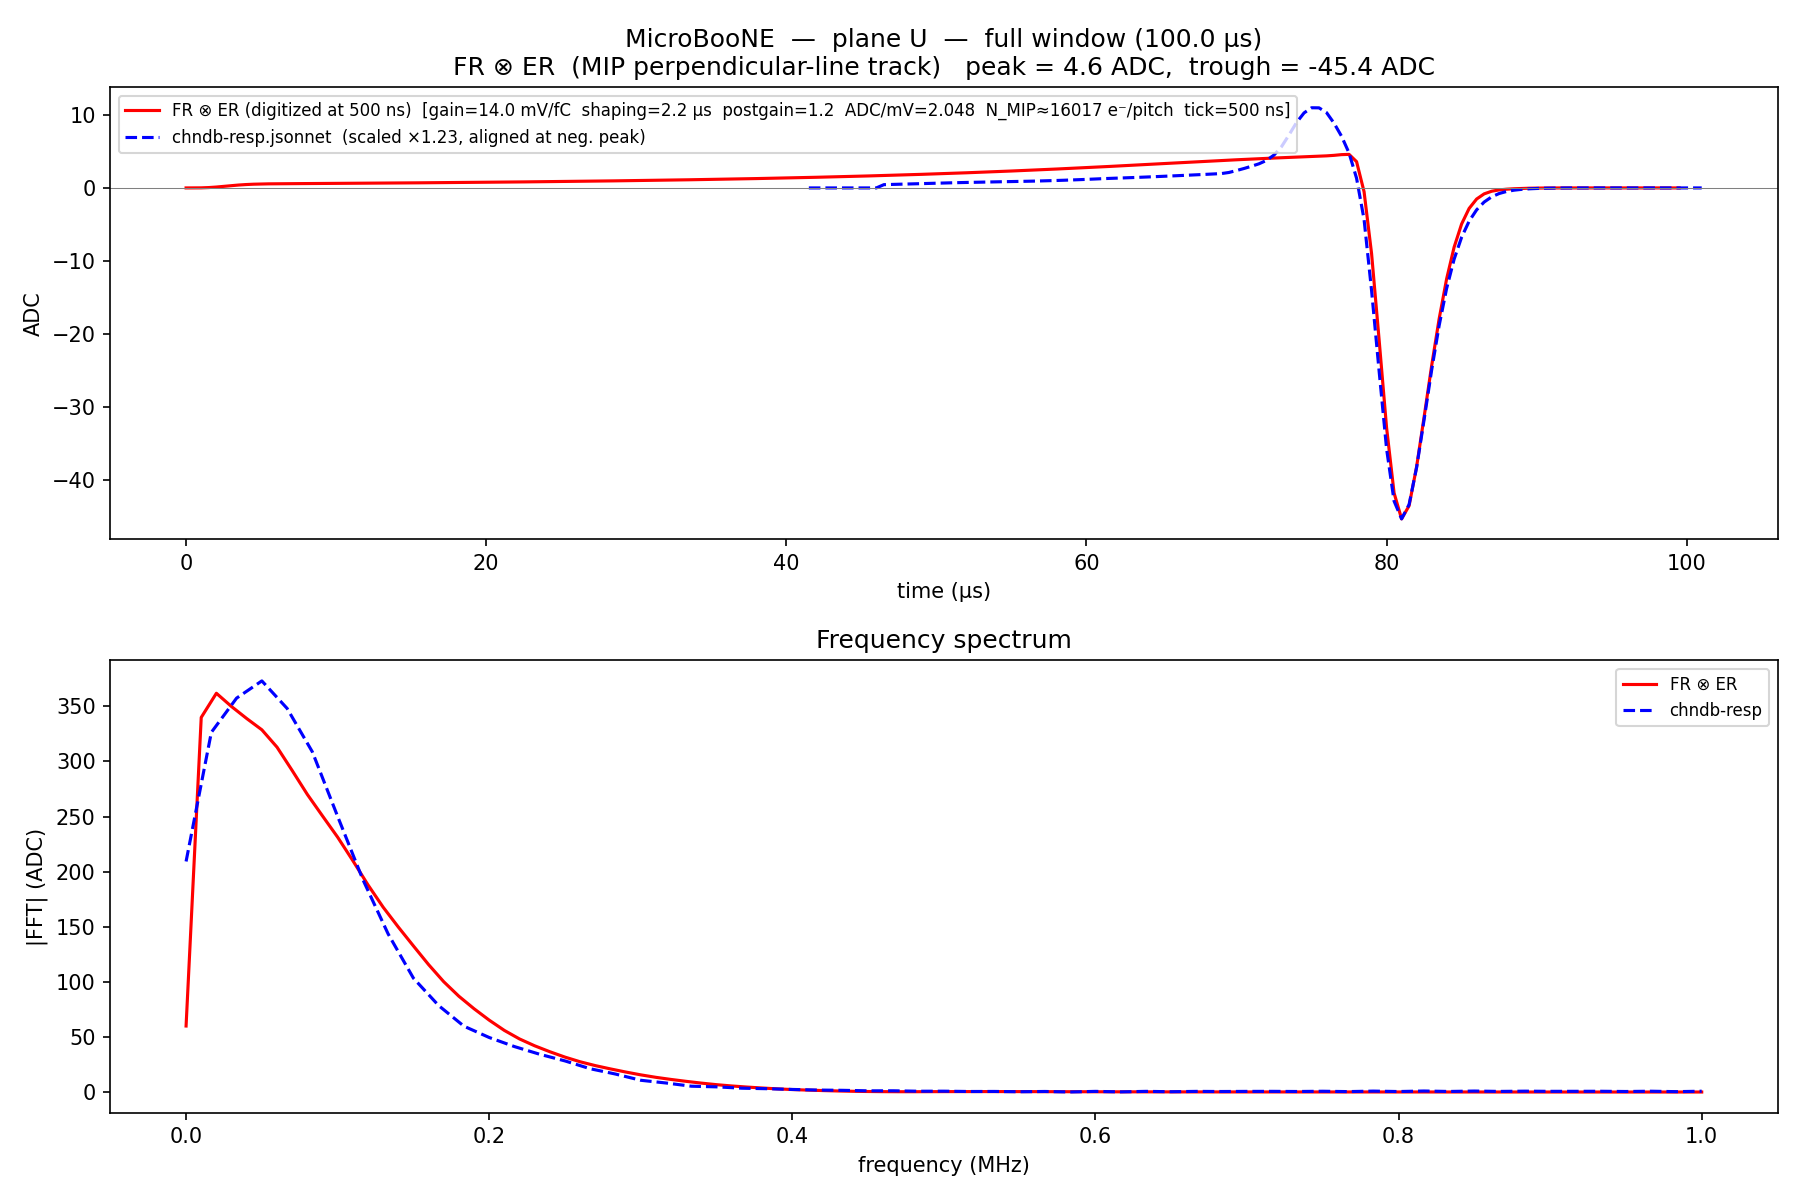
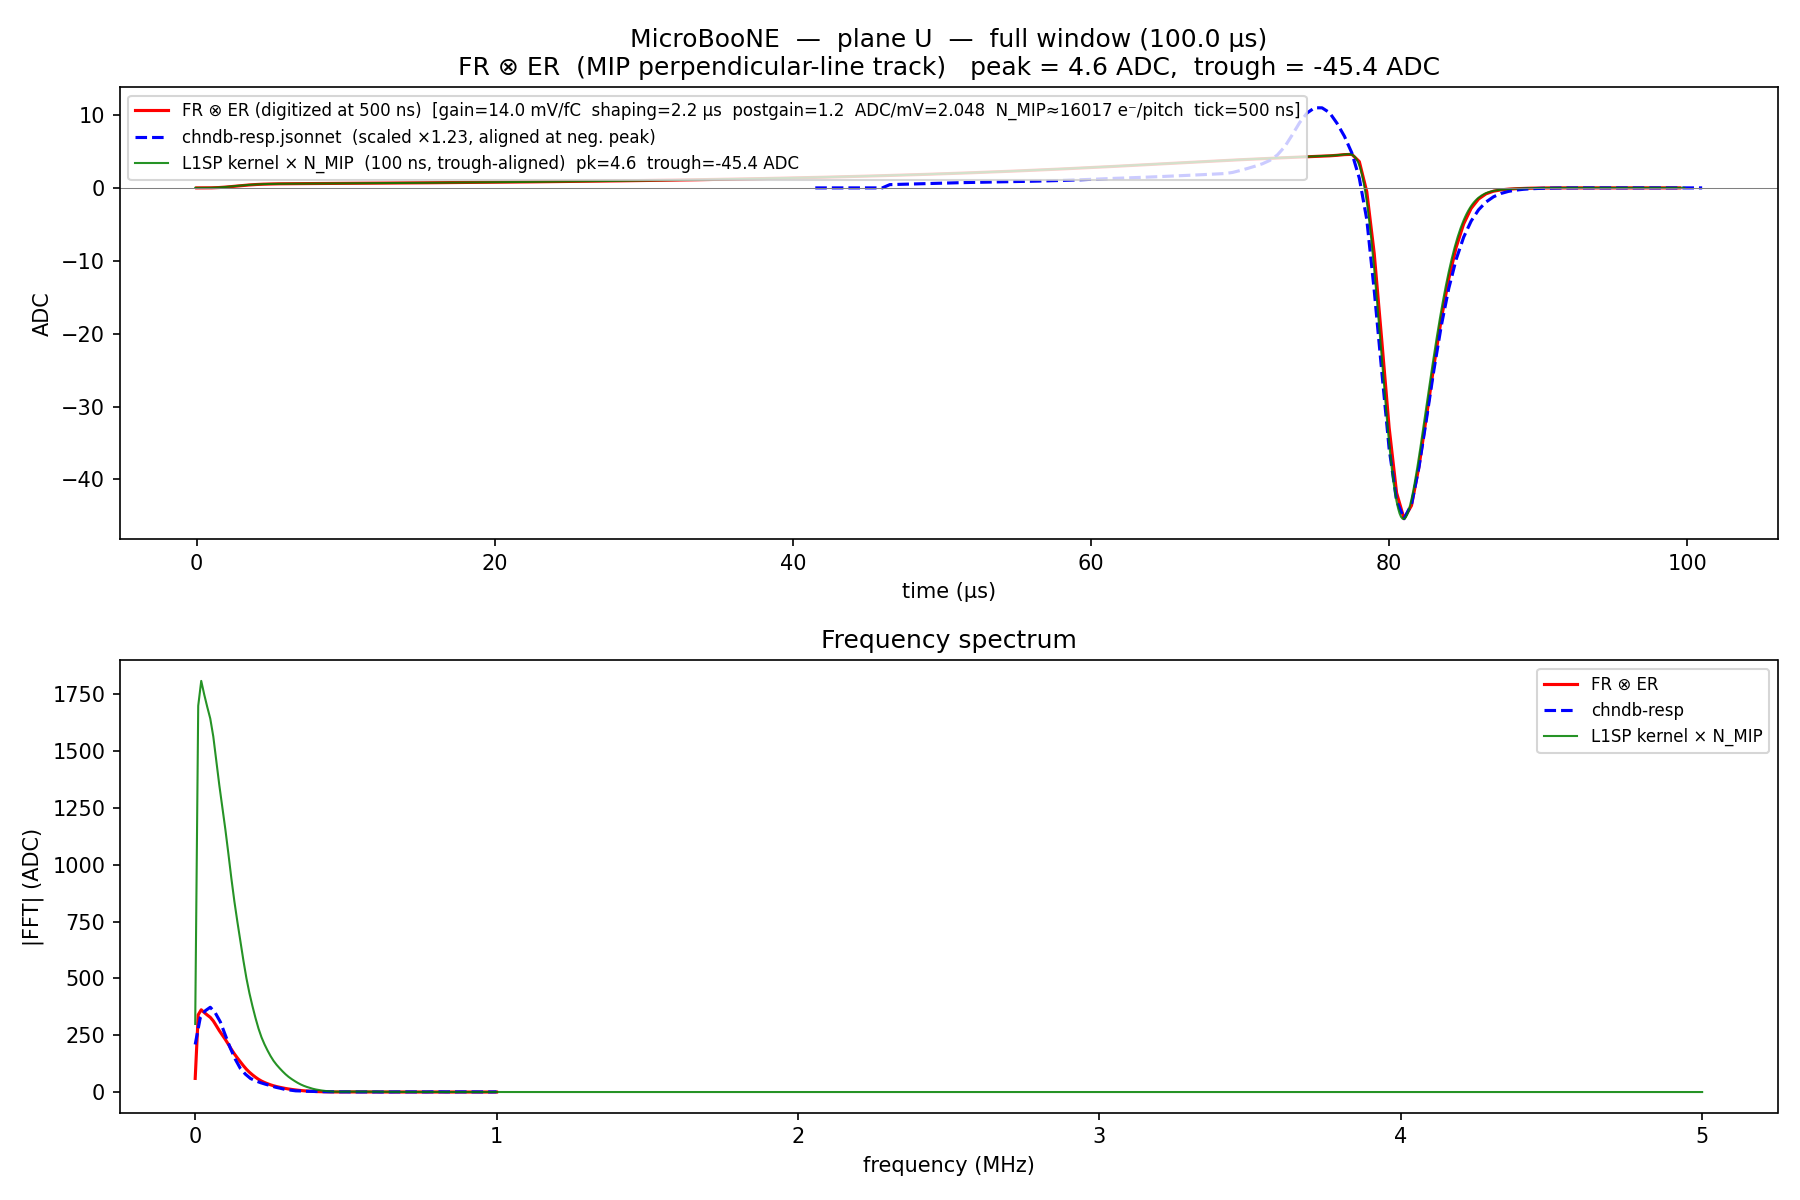
catck up

diff --git a/pdvd/nf_plot/track_response_uboone.py b/pdvd/nf_plot/track_response_uboone.py
@@ -61,7 +61,24 @@ ADC_PER_MV  = 2.048
 #   1.8 MeV/cm × 0.3 cm × 0.7 (recombination) / 23.6 eV per ion pair
 N_MIP_PER_PITCH = (1.8e6 * 0.3 * 0.7) / 23.6   # ≈ 16017 e-
 
+# L1SPFilter (uBooNE) default time offsets — from L1SPFilter.h default params
+L1SP_COARSE_TIME_OFFSET_US  = -8.0   # m_coarse_time_offset
+L1SP_FINE_TIME_OFFSET_US    =  0.0   # m_fine_time_offset
+L1SP_COLLECT_TIME_OFFSET_US = +3.0   # collect_time_offset (W-basis arg shift in L1_fit)
+
 # ---------------------------------------------------------------------------
+
+def l1sp_response(fr_line, er, period_ns):
+    """Reproduce L1SPFilter::init_resp() for one plane.
+
+    Returns the kernel sampled at period_ns (ADC per single electron),
+    matching lin_V / lin_W before the x250 conditioning inside L1_fit.
+    Uses circular FFT — same as the C++ FFT helper.
+    """
+    ewave = -1.0 * POSTGAIN * (ADC_PER_MV / units.mV) * er
+    S = np.fft.rfft(fr_line) * np.fft.rfft(ewave) * period_ns
+    return np.fft.irfft(S, n=len(fr_line))
+
 
 def parse_chndb_resp(path):
     """Extract u_resp and v_resp float arrays from chndb-resp.jsonnet."""
@@ -119,7 +136,8 @@ def line_source_response(plane):
     return integral / pitch
 
 
-def make_plot(wave_adc, chndb_ref, tick_us, plane_label, outpath):
+def make_plot(wave_adc, chndb_ref, tick_us, plane_label, outpath,
+              resp_l1_mip=None, t_l1sp_us=None):
     """Two-panel plot: ADC waveform at 0.5 µs tick (top) + |FFT| (bottom)."""
     N = len(wave_adc)
     t_us      = np.arange(N) * tick_us
@@ -152,6 +170,14 @@ def make_plot(wave_adc, chndb_ref, tick_us, plane_label, outpath):
             label=f'FR ⊗ ER (digitized at {tick_us*1000:.0f} ns)  [{params_str}]')
     ax.plot(t_chndb, chndb_scaled, 'b--', lw=1.5,
             label=f'chndb-resp.jsonnet  (scaled ×{scale:.3g}, aligned at neg. peak)')
+    if resp_l1_mip is not None and t_l1sp_us is not None:
+        i_neg_l1 = int(np.argmin(resp_l1_mip))
+        t_l1sp_aligned = t_l1sp_us + (t_neg_us - t_l1sp_us[i_neg_l1])
+        l1_pk = resp_l1_mip[np.argmax(resp_l1_mip)]
+        l1_tr = resp_l1_mip[i_neg_l1]
+        ax.plot(t_l1sp_aligned, resp_l1_mip, color='green', lw=1.0, alpha=0.85,
+                label=(f'L1SP kernel × N_MIP  (100 ns, trough-aligned)  '
+                       f'pk={l1_pk:.1f}  trough={l1_tr:.1f} ADC'))
     ax.axhline(0, color='gray', lw=0.5)
     ax.set_xlabel('time (µs)')
     ax.set_ylabel('ADC')
@@ -166,6 +192,11 @@ def make_plot(wave_adc, chndb_ref, tick_us, plane_label, outpath):
     ax.plot(freqs_mhz, np.abs(np.fft.rfft(wave_adc)), 'r-', lw=1.5, label='FR ⊗ ER')
     freqs_chndb = np.fft.rfftfreq(len(chndb_scaled), d=CHNDB_TICK_US)   # MHz
     ax.plot(freqs_chndb, np.abs(np.fft.rfft(chndb_scaled)), 'b--', lw=1.5, label='chndb-resp')
+    if resp_l1_mip is not None and t_l1sp_us is not None:
+        fine_tick_us = t_l1sp_us[1] - t_l1sp_us[0]
+        freqs_l1 = np.fft.rfftfreq(len(resp_l1_mip), d=fine_tick_us)
+        ax.plot(freqs_l1, np.abs(np.fft.rfft(resp_l1_mip)), color='green',
+                lw=1.0, alpha=0.85, label='L1SP kernel × N_MIP')
     ax.set_xlabel('frequency (MHz)')
     ax.set_ylabel('|FFT| (ADC)')
     ax.set_title('Frequency spectrum')
@@ -251,8 +282,49 @@ def run():
         scale     = pk_neg_adc / chndb_ref[i_neg_c]
         print(f'  chndb-resp neg peak at sample {i_neg_c}  ({i_neg_c * CHNDB_TICK_US:.1f} µs),  scale = {scale:.4g}')
 
+        # L1SP kernel (ADC/electron at fine period) and numerical verification
+        resp_l1     = l1sp_response(fr_line, er, period_ns)
+        resp_l1_mip = resp_l1 * N_MIP_PER_PITCH
+        wave_adc_fine = wave_mv * ADC_PER_MV
+        maxdiff  = np.max(np.abs(resp_l1_mip - wave_adc_fine))
+        allclose = np.allclose(resp_l1_mip, wave_adc_fine, atol=1.0)
+        print(f'  L1SP kernel vs fine-period FR⊗ER: allclose(atol=1)={allclose}'
+              f'  max_abs_diff={maxdiff:.3e} ADC')
+
+        # Time axis for the L1SP linterp (x0 convention from L1SPFilter::init_resp)
+        intrinsic_toff_ns = fr.origin / fr.speed
+        intrinsic_toff_us = intrinsic_toff_ns / units.us
+        x0_us = (-intrinsic_toff_us
+                 - L1SP_COARSE_TIME_OFFSET_US
+                 + L1SP_FINE_TIME_OFFSET_US)
+        t_l1sp_us = x0_us + np.arange(N_fr) * (period_ns / 1000.0)
+
+        adc_mv_wc  = ADC_PER_MV / units.mV
+        kern_peak  = np.max(np.abs(resp_l1))
+        print(f'\nL1SP normalization chain ({label} plane):')
+        print(f'  postgain                    = {POSTGAIN}')
+        print(f'  ADC_PER_MV (count/mV)       = {ADC_PER_MV}')
+        print(f'  units.mV (WC unit value)    = {units.mV:.6g}')
+        print(f'  ADC_MV_WC = ADC_PER_MV/mV  = {adc_mv_wc:.6g}  count/(WC-mV)')
+        print(f'  fine_period (ns)            = {period_ns}')
+        print(f'  sign                        = -1')
+        print(f'  kernel |peak| (ADC/e)       = {kern_peak:.4g}')
+        print(f'  kernel |peak| × N_MIP (ADC) = {kern_peak * N_MIP_PER_PITCH:.2f}')
+        print(f'\nL1SP time-offset chain ({label} plane):')
+        print(f'  fr.origin (WC length)       = {fr.origin:.6g}')
+        print(f'  fr.speed  (WC velocity)     = {fr.speed:.6g}')
+        print(f'  intrinsic_toff (µs)         = {intrinsic_toff_us:.4f}')
+        print(f'  coarse_time_offset (µs)     = {L1SP_COARSE_TIME_OFFSET_US}')
+        print(f'  fine_time_offset (µs)       = {L1SP_FINE_TIME_OFFSET_US}')
+        print(f'  x0 for lin_{label}(t) (µs)   = {x0_us:.4f}')
+        print(f'  inside L1_fit:')
+        print(f'    overall_time_offset (µs)  = 0.0  (uBooNE default)')
+        print(f'    collect_time_offset (µs)  = {L1SP_COLLECT_TIME_OFFSET_US:+.1f}  (W-basis arg shift; V unshifted)')
+        print(f'    output placement          = start_tick + j  (no shift)')
+
         outpath = os.path.join(WORKDIR, f'track_response_uboone_{label}.png')
-        make_plot(wave_adc, chndb_ref, tick_us, label, outpath)
+        make_plot(wave_adc, chndb_ref, tick_us, label, outpath,
+                  resp_l1_mip=resp_l1_mip, t_l1sp_us=t_l1sp_us)
 
 
 if __name__ == '__main__':

diff --git a/pdvd/nf_plot/track_response_tool.md b/pdvd/nf_plot/track_response_tool.md
@@ -87,3 +87,84 @@ plots.plot_digitized_line(uvw, gain=14*mV/fC, shaping=2*us, tick=0.5*us, elec_ty
 - `toolkit/gen/docs/talks/lmn-fr/lmn-fr.org` — slides on FR ⊗ ER and line-track tests
 - `toolkit/gen/docs/examination/response-and-convolution.md` — `PlaneImpactResponse` + `ImpactTransform` internals
 - `wirecell/sigproc/response/__init__.py` docstring on `line()` — translation-invariance argument
+
+---
+
+## L1SP fit kernel and `track_response_uboone.py` overlay
+
+`track_response_uboone.py` (same directory) overlays three curves on each plane:
+
+1. **FR ⊗ ER (red, 500 ns tick)** — MIP perpendicular-track response at ADC readout tick.
+2. **chndb-resp.jsonnet (blue, 500 ns tick)** — the reference waveform stored in the chndb, scaled and aligned at the trough.
+3. **L1SP kernel × N_MIP (green, 100 ns)** — the response function used inside `L1SPFilter::L1_fit()`, scaled to MIP units for direct comparison.
+
+Curves 1 and 3 are constructed from the same FR and ER; they differ only in the final resampling step (red is resampled to 500 ns, green stays at 100 ns). The green curve's sharper peaks show the information lost by ADC digitization.
+
+### Three L1SP response objects (keep them distinct)
+
+| Object                          | Units                         | Where built              |
+|---------------------------------|-------------------------------|--------------------------|
+| `resp_l1` raw buffer            | ADC / single electron, 100 ns | `l1sp_response()` in .py / `init_resp()` in C++ |
+| `lin_V(t)` continuous eval      | ADC / single electron         | `linterp` around `resp_l1` |
+| `G(i, j)` matrix entry          | ADC × 250 / single electron   | inside `L1_fit()` with ×250 conditioning |
+
+The ×250 in G is `l1_scaling_factor (500) × l1_resp_scale (0.5)` — a numerical conditioning constant, not physics. It is compensated by the output weights `l1_col_scale=1.15` (W/collection) and `l1_ind_scale=0.50` (V/induction).
+
+### Normalization chain
+
+```
+fr_line(t) [WC current / electron]    = line-source FR (1/pitch × ∫ I dX)
+ewave(t)   [ADC / (WC current)]       = -POSTGAIN × (ADC_PER_MV / units.mV) × ER(t)
+kernel(t)  [ADC / electron]           = IFFT(FFT(fr_line) × FFT(ewave) × period_ns)
+```
+
+Numerical values (uBooNE):
+- `POSTGAIN = 1.2`
+- `ADC_PER_MV = 2.048`  (12-bit, 0–2 V fullscale)
+- `units.mV = 1e-9`  (WC voltage unit = 1 MV, so 1 mV = 1e-9 WC units)
+- `ADC_MV_WC = 2.048 / 1e-9 = 2.048e9`  count / WC-mV
+- `period_ns = 100`  (the dt factor converting discrete conv → integral)
+- V-plane: kernel peak = 0.002234 ADC/e → ×N_MIP ≈ 35.8 ADC (matches fine-period trough)
+- U-plane: kernel peak = 0.002836 ADC/e → ×N_MIP ≈ 45.4 ADC
+
+Numerical identity verified: `max_abs_diff(kernel × N_MIP, wave_adc_fine) = 1.4e-14 ADC`.
+
+### Time-offset chain
+
+`linterp` is constructed with `x0 = -intrinsic_toff - coarse_toff + fine_toff`:
+
+```
+fr.origin  = 100 mm   (reference drift distance in WC length units)
+fr.speed   = 0.001114 mm/ns   (drift velocity ≈ 1.1 mm/µs in LAr)
+intrinsic_toff = origin/speed = 89.77 µs
+
+coarse_time_offset = -8.0 µs  (hardware readout latency correction)
+fine_time_offset   =  0.0 µs
+
+x0 = -89.77 - (-8.0) + 0.0 = -81.77 µs
+```
+
+`lin_V(t)` is queried at `t = (tick_i - tick_j) × tick_size + overall_time_offset`.
+When `t = 0`, the charge arrived at the wire at the same tick as the response sample.
+The W-basis is queried with `t + collect_time_offset (+3 µs)` — this shifts the W
+response *shape* inside the matrix, but does not displace the output signal in time.
+Output: `l1_signal[start_tick + j]` — placed directly at `j`, no further shift.
+
+### PDHD extension — parameter swap table
+
+To build an L1SP kernel for PDHD or PDVD, replace these parameters:
+
+| Parameter              | uBooNE (reference)                      | PDHD/PDVD (to fill in)               |
+|------------------------|-----------------------------------------|---------------------------------------|
+| FR file                | `ub-10-half.json.bz2`                    | PDHD/PDVD field-response file         |
+| `gain`                 | 14.0 mV/fC                              | per-detector FE gain                  |
+| `shaping`              | 2.2 µs                                  | per-detector FE shaping               |
+| `postgain`             | 1.2                                     | per-detector postgain                 |
+| `ADC_PER_MV`           | 2.048  (12-bit, 0–2 V)                  | per-detector ADC fullscale            |
+| `coarse_time_offset`   | −8.0 µs                                 | tune from PDHD/PDVD hardware timing   |
+| basis 0 (induction)    | bipolar V  (V-plane FR, `lin_V`)         | bipolar induction (any induction plane)|
+| basis 1 (collection)   | W with `collect_time_offset = +3 µs`    | unipolar ± with `unipolar_time_offset` (default +3 µs, `L1SPFilterPD.h:114`) |
+| output basis weights   | `l1_col_scale=1.15`, `l1_ind_scale=0.50` | `l1_basis0_scale`, `l1_basis1_scale`  |
+
+The `l1sp_response()` function in `track_response_uboone.py` is detector-agnostic — pass
+the PDHD FR line, PDHD ER, and period; the rest is the same FFT product.
